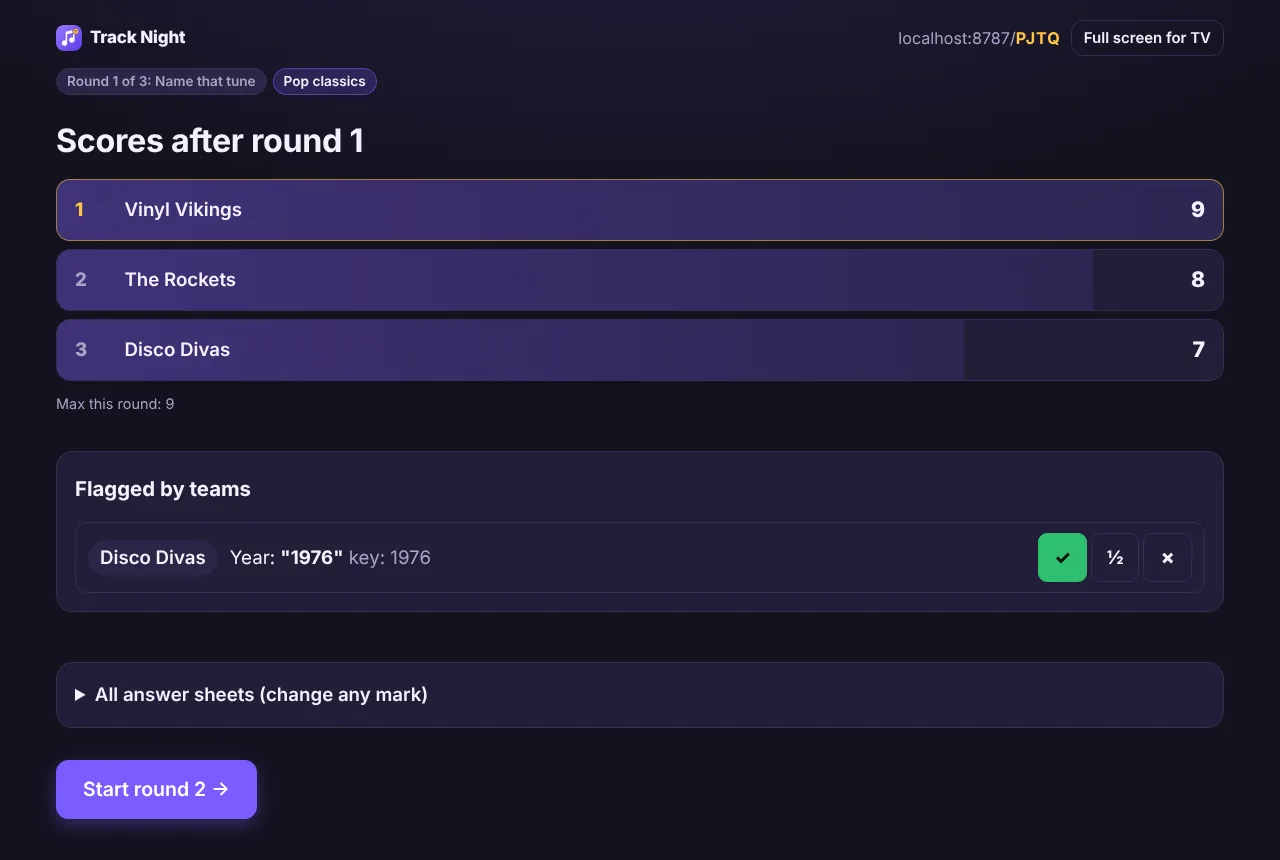
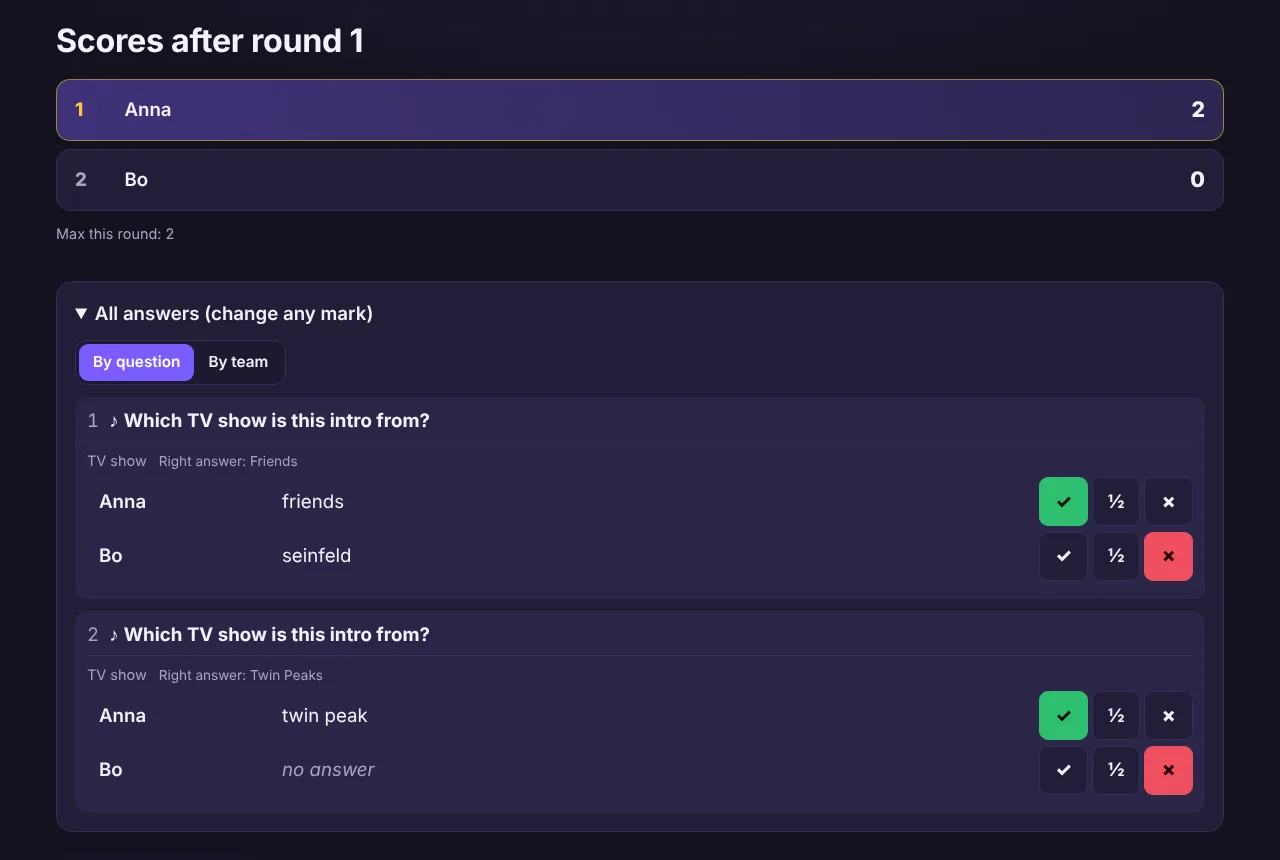
Site: own-question songs and seeing every answer (#2)
* Add Random quiz to the feature list and quiz-list screenshot

Matches the app change in music-quiz-app PR #2. No privacy change:
random quizzes are built and saved in the browser like other quizzes.

Claude-Session: https://claude.ai/code/session_01StYdww9nuKnYPwEL9S93gE

* Site: songs with only your own questions, and seeing every answer

Feature list and results screenshot match music-quiz-app PR #3. No
privacy change.

Claude-Session: https://claude.ai/code/session_01StYdww9nuKnYPwEL9S93gE

---------

diff --git a/index.html b/index.html
@@ -79,7 +79,7 @@
         </div>
         <div class="row">
           <figure class="shot"><img src="img/host-picture.webp" alt="TV screen showing question 4, a picture question asking which app this is the icon of" width="1280" height="860" loading="lazy"><figcaption>Picture and trivia questions show big on the TV.</figcaption></figure>
-          <figure class="shot"><img src="img/results.webp" alt="Scoreboard after round one with three teams and a flagged year answer for the quiz master to settle" width="1280" height="860" loading="lazy"><figcaption>Scores after each round, with flagged answers for the quiz master to settle.</figcaption></figure>
+          <figure class="shot"><img src="img/results.webp" alt="Scores after round one, and every team's answers listed under each question next to the right answer, with buttons to change a mark" width="1280" height="860" loading="lazy"><figcaption>Scores after each round, with every team's answers next to the right ones.</figcaption></figure>
         </div>
         <div class="phones">
           <figure class="shot"><div class="phone"><img src="img/player-team.webp" alt="Phone showing You're in, Anna, with a QR code teammates scan to join The Rockets" width="585" height="996" loading="lazy"></div><figcaption>Your phone shows a team code for your friends to scan.</figcaption></figure>
@@ -96,7 +96,8 @@
       <h2>Made for a real quiz night</h2>
       <p class="sub">Everything a quiz master needs, and nothing players have to install.</p>
       <ul class="features">
-        <li><b>100% your quiz</b><span>Songs, trivia, pictures and multiple choice in any mix. Ask for artist, title and year, or anything else, with your own points.</span></li>
+        <li><b>100% your quiz</b><span>Songs, trivia, pictures and multiple choice in any mix. Ask for artist, title and year, or only your own question, like "Which TV show is this intro from?", with your own points.</span></li>
+        <li><b>See every answer</b><span>After each round, players see their answers next to the right ones, and the quiz master sees every team's answers by question or by team. Everything is there again at the end.</span></li>
         <li><b>Rounds your way</b><span>Name each round, give it a category, make it double or triple points, or add a countdown that locks answers by itself.</span></li>
         <li><b>Easy team joining</b><span>Scan the TV's QR code, tap New team, and teammates scan the team code on that phone. Players can switch team in the lobby.</span></li>
         <li><b>Forgiving answer checking</b><span>Typos, "The", accents and "feat." are handled. Close calls go to you, and years within one year earn half points.</span></li>
